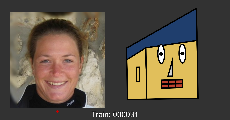
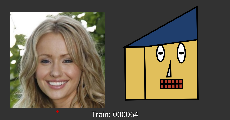
made eyes follow tracking data

diff --git a/face.js b/face.js
@@ -40,14 +40,16 @@ function Face() {
   //  *    bottom_lip, top_lip, nose_tip, nose_bridge, 
   //  */  
    this.draw = function(positions) {
-    push();
-    scale(1);
-   console.log(positions);
+  //   push();
+  //   scale(1);
+  //  console.log(positions);
     this.face.drawFace(positions);
    
-  stroke(225,255,255);
-  //  this.draw_segment(positions.nose_bridge);
-    // stroke(225,0,0);
+  // stroke(225,255,255);
+  // //  this.draw_segment(positions.nose_bridge);
+  //    stroke(225,0,0);
+  //    this.draw_segment(positions.left_eye);
+  //    this.draw_segment(positions.left_eyebrow);
     // this.draw_segment(positions.nose_tip);
     // // this.draw_segment(positions.bottom_lip);
     //   stroke(0,225,0);
@@ -59,7 +61,7 @@ function Face() {
       //   ellipse(positions.top_lip[6][0],positions.top_lip[6][1],.05);
       //  ellipse(positions.top_lip[4][0],positions.top_lip[4][1],.05);
       //  ellipse(positions.bottom_lip[3][0],positions.bottom_lip[3][1],.05);
-    pop();
+   //pop();
    }
   
   //   // head
@@ -152,28 +154,28 @@ function Face() {
   this.setProperties = function(settings) {
     this.face.sideBurn=sideBurns[Math.floor(map(settings[0], 0, 100, 0,sideBurns.length))];
     this.face.sideBurnHeight=map(settings[1], 0, 100, minSideBurnHeight, maxSideBurnHeight);
-    this.face.noseHeight=map(settings[2], 0, 100, minNoseHeight, maxNoseHeight);
+    //this.face.noseHeight=map(settings[2], 0, 100, minNoseHeight, maxNoseHeight);
     
     
     
     this.face.noseDirection=noseDirections[Math.floor(map(settings[3], 0, 100, 0,noseDirections.length))];
     
-    this.face.noseY=map(settings[4], 0, 100, minNoseY, maxNoseY);
-    this.face.noseWidth=map(settings[5], 0, 100, minNoseWidth, this.face.getMaxNoseWidth());
+    //this.face.noseY=map(settings[4], 0, 100, minNoseY, maxNoseY);
+    //this.face.noseWidth=map(settings[5], 0, 100, minNoseWidth, this.face.getMaxNoseWidth());
     
-    this.face.eyeWidth=map(settings[6], 0, 100, minEyeWidth, maxEyeWidth);
-    this.face.eyeHeight=map(settings[7], 0, 100, minEyeHeight, maxEyeHeight);
+    //this.face.eyeWidth=map(settings[6], 0, 100, minEyeWidth, maxEyeWidth);
+    //this.face.eyeHeight=map(settings[7], 0, 100, minEyeHeight, maxEyeHeight);
     this.face.innerEyeWidth=map(settings[8], 0, 100, minInnerEyeWidth, maxInnerEyeWidth);
     this.face.innerEyeHeight=map(settings[9], 0, 100, minInnerEyeHeight, maxInnerEyeHeight);
-    this.face.eyeX=map(settings[10], 0, 100, minEyeX, this.face.getMaxEyeX());
+    //this.face.eyeX=map(settings[10], 0, 100, minEyeX, this.face.getMaxEyeX());
     this.face.earShape=earShapes[Math.floor(map(settings[11], 0, 100, 0,earShapes.length))];
     this.face.earY=map(settings[12], 0, 100, minEarY, maxEarY);
     this.face.innerEarWidth=this.face.earWidth*map(settings[13], 0, 100, minInnerEarWidth, maxInnerEarWidth);
     this.face.innerEarHeight=this.face.headHeight*map(settings[14], 0, 100, minInnerEarHeight, this.face.getMaxInnerEarHeight());
     this.face.hasTeeth=0.5<map(settings[15], 0, 100, 0,1);
-    this.face.mouthWidth=map(settings[16], 0, 100, minMouthWidth,maxMouthWidth);
-    this.face.mouthHeight=map(settings[17],0,100,minMouthHeight,this.face.getMaxMouthHeight());
-    this.face.mouthY=map(settings[18], 0, 100, this.face.getMinMouthY(), this.face.getMaxMouthY());
+    //this.face.mouthWidth=map(settings[16], 0, 100, minMouthWidth,maxMouthWidth);
+    //this.face.mouthHeight=map(settings[17],0,100,minMouthHeight,this.face.getMaxMouthHeight());
+    //this.face.mouthY=map(settings[18], 0, 100, this.face.getMinMouthY(), this.face.getMaxMouthY());
     this.face.numberOfteeth=Math.floor(map(settings[19], 0, 100, minNumberOfteeth,maxNumberOfTeeth));
 
     
@@ -185,25 +187,25 @@ function Face() {
     let settings = new Array(3);
    settings[0] = map(sideBurns.indexOf(this.face.sideBurn),0,sideBurns.length, 0, 100);
      settings[1] = map(this.face.sideBurnHeight, minSideBurnHeight,maxSideBurnHeight,0, 100);
-    settings[2] = map(this.face.noseHeight, minNoseHeight, maxNoseHeight, 0, 100);
+    //settings[2] = map(this.face.noseHeight, minNoseHeight, maxNoseHeight, 0, 100);
    
 
     settings[3]=map(noseDirections.indexOf(this.face.noseDirection), 0,noseDirections.length, 0, 100);
-    settings[4]=map(this.face.noseY, minNoseY, maxNoseY, 0, 100);
-    settings[5]=map(this.face.noseWidth,  minNoseWidth, this.face.getMaxNoseWidth(),0, 100);
-    settings[6]=map(this.face.eyeWidth, minEyeWidth, maxEyeWidth, 0, 100);
-    settings[7]=map(this.face.eyeHeight, minEyeHeight, maxEyeHeight, 0, 100);
+    //settings[4]=map(this.face.noseY, minNoseY, maxNoseY, 0, 100);
+    //settings[5]=map(this.face.noseWidth,  minNoseWidth, this.face.getMaxNoseWidth(),0, 100);
+    //settings[6]=map(this.face.eyeWidth, minEyeWidth, maxEyeWidth, 0, 100);
+    //settings[7]=map(this.face.eyeHeight, minEyeHeight, maxEyeHeight, 0, 100);
     settings[8]= map(this.face.innerEyeWidth, minInnerEyeWidth, maxInnerEyeWidth, 0, 100);
     settings[9]=map(this.face.innerEyeHeight, minInnerEyeHeight, maxInnerEyeHeight, 0, 100);
-    settings[10]=map(this.face.eyeX, minEyeX, this.face.getMaxEyeX(), 0, 100);
+    //settings[10]=map(this.face.eyeX, minEyeX, this.face.getMaxEyeX(), 0, 100);
     settings[11]=map(earShapes.indexOf(this.face.earShape), 0,earShapes.length, 0, 100);
     settings[12]= map(this.face.earY, minEarY, maxEarY, 0, 100);
     settings[13]=map(this.face.innerEarWidth/this.face.earWidth, minInnerEarWidth, maxInnerEarWidth, 0, 100);
     settings[14]=map(this.face.innerEarHeight/this.face.headHeight, minInnerEarHeight, this.face.getMaxInnerEarHeight(), 0, 100);
     settings[15]=map(this.face.hasTeeth?1:0, 0,1, 0, 100);
-    settings[16]=map(this.face.mouthWidth, minMouthWidth,maxMouthWidth, 0, 100);
-    settings[17]= map(this.face.mouthHeight,minMouthHeight,this.face.getMaxMouthHeight(),0,100);
-    settings[18]=map(this.face.mouthY, this.face.getMinMouthY(), this.face.getMaxMouthY(), 0, 100);
+    //settings[16]=map(this.face.mouthWidth, minMouthWidth,maxMouthWidth, 0, 100);
+    //settings[17]= map(this.face.mouthHeight,minMouthHeight,this.face.getMaxMouthHeight(),0,100);
+    //settings[18]=map(this.face.mouthY, this.face.getMinMouthY(), this.face.getMaxMouthY(), 0, 100);
     settings[19]=map(this.face.numberOfteeth, minNumberOfteeth,maxNumberOfTeeth, 0, 100);
     
     

diff --git a/myFace.js b/myFace.js
@@ -250,23 +250,28 @@ class myFace{
     // segment_average(positions.right_eye);
     //left eye
     fill(this.eyeBallCol);
-    ellipse( segment_average(this.positions.left_eye)[0], this.eyeY, this.eyeWidth, this.eyeHeight);
+    let leftEyeWidth=this.positions.left_eye[3][0]-this.positions.left_eye[0][0];
+    let leftEyeHeight=2*(segment_average(this.positions.left_eye)[1]-this.positions.left_eyebrow[2][1]);
+    ellipse( segment_average(this.positions.left_eye)[0], this.eyeY, leftEyeWidth, leftEyeHeight);
     if(!this.eyeStroke){
       strokeWeight(0);
     }
     
     fill(this.eyeCentreCol);
-    ellipse(segment_average(this.positions.left_eye)[0], this.eyeY, this.eyeWidth*this.innerEyeWidth, this.eyeHeight*this.innerEyeHeight);
+    ellipse(segment_average(this.positions.left_eye)[0], this.eyeY, leftEyeWidth*this.innerEyeWidth, leftEyeHeight*this.innerEyeHeight);
     strokeWeight(myStrokeWeight);
     // //draw right eye if not a cyclops
+    let rightEyeWidth=this.positions.right_eye[3][0]-this.positions.right_eye[0][0];
+    let rightEyeHeight=2*(segment_average(this.positions.right_eye)[1]-this.positions.right_eyebrow[2][1]);
+
     // if(this.eyeX!=0){
       fill(this.eyeBallCol);
-      ellipse(segment_average(this.positions.right_eye)[0], this.eyeY, this.eyeWidth, this.eyeHeight);
+      ellipse(segment_average(this.positions.right_eye)[0], this.eyeY, rightEyeWidth, this.eyeHeight);
       fill(this.eyeCentreCol);
       if(!this.eyeStroke){
         strokeWeight(0);
       }
-      ellipse(segment_average(this.positions.right_eye)[0], this.eyeY, this.eyeWidth*this.innerEyeWidth, this.eyeHeight*this.innerEyeHeight);
+      ellipse(segment_average(this.positions.right_eye)[0], this.eyeY, rightEyeWidth*this.innerEyeWidth, this.eyeHeight*this.innerEyeHeight);
       strokeWeight(myStrokeWeight);
     //}
   }

diff --git a/README.md b/README.md
@@ -1,1 +1,1 @@
-I have resized the mouth to make itfollow the facial tracking data. i had to add a small offset on the y axis to move the mouth away from the nose as there was some overlap in the faces with a narrower gap. 
+I have resized the eye so that it has its width mapped to the width of the facial data. I have made the height that of the eye is that of 2* the gap between the eye and eyebrow as using the the eyes height would have made the eye too small. The eyes look weird being different sizes. I am unsure what to do about this given technically it is due to the photo angles. 
